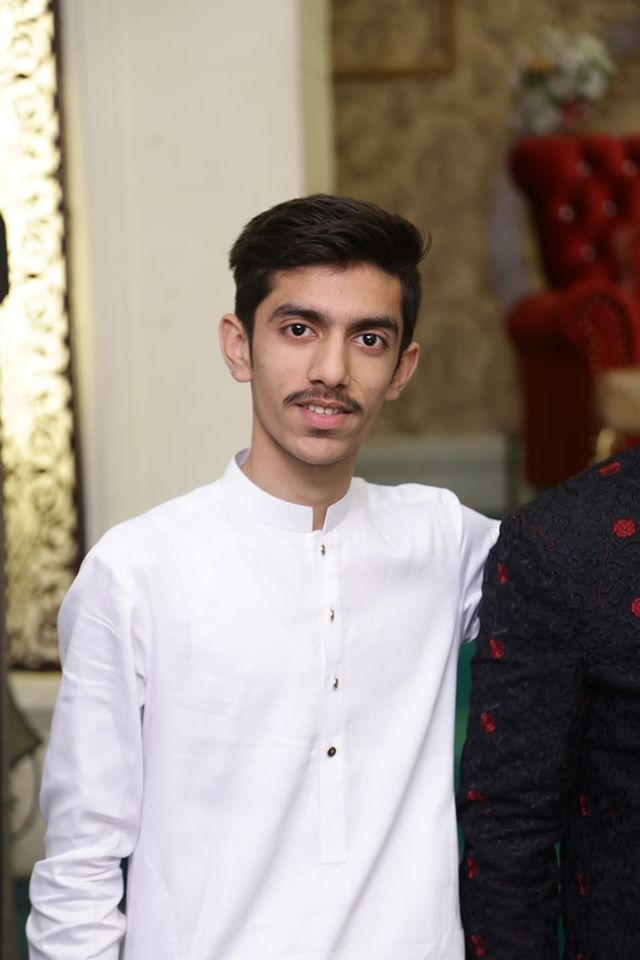
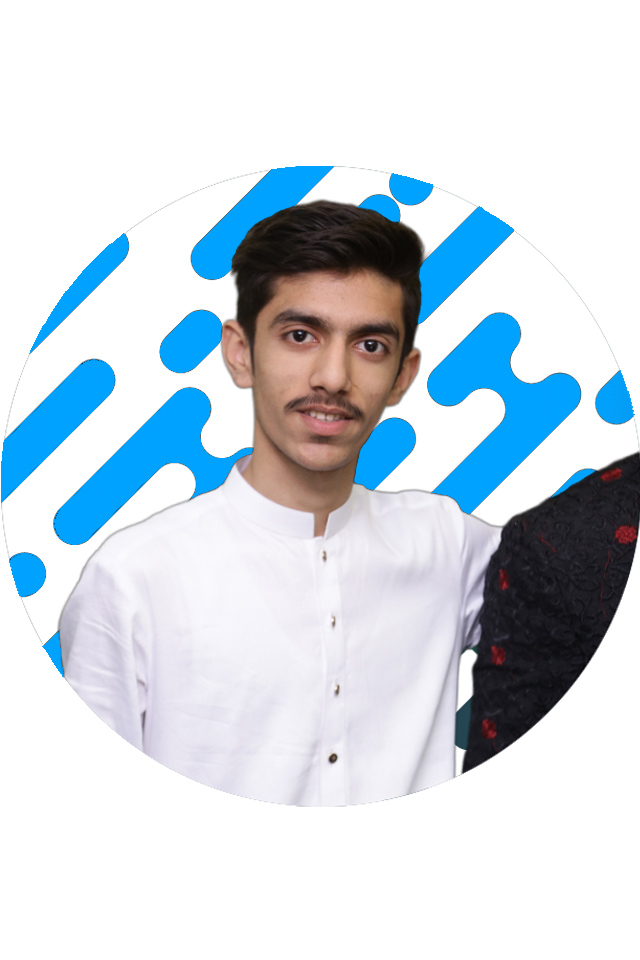
second

diff --git a/index.html b/index.html
@@ -6,7 +6,7 @@
 
         <!--==================== UNICONS ====================-->
         <link rel="stylesheet" href="https://unicons.iconscout.com/release/v4.0.0/css/line.css">
-        
+        <link rel="stylesheet" href="https://unicons.iconscout.com/release/v4.0.0/css/solid.css">
         <!--==================== SWIPER CSS ====================-->
         <link rel="stylesheet" href="./packages/css/swiper-bundle.min.css">
         
@@ -98,7 +98,7 @@
                                     165.547 130.807 187.559 100.226 186.353C69.6454 185.297 41.0228 161.023 21.7403 
                                     129.362C2.45775 97.8511 -7.48481 59.1033 6.67581 34.5279C20.9871 10.1032 59.7028 
                                     -0.149132 97.9666 0.00163737C136.23 0.303176 174.193 10.857 190.312 36.4879Z"/>
-                                    <image class="home__blob-img" x="" y="-50" xlink:href="packages/images/DP.jpg"/>
+                                    <image class="home__blob-img" x="" y="-50" xlink:href="packages/images/profile.jpg"/>
                                 </g>
                             </svg>
                         </div>
@@ -435,7 +435,7 @@
         <div class="services__content">
             <div>
                 <i class="uil uil-swatchbook skills__icon"></i>
-                <h3 class="services__title">Graphic Design<br></h3>
+                <h3 class="services__title">Web Developer<br></h3>
             </div>
             <span class="button button--flex button--small button--link services__button">
                 View more
@@ -444,7 +444,7 @@
 
             <div class="services__modal">
                 <div class="services__modal-content">
-                    <h4 class="services__modal-title">Graphic Design <br></h4>
+                    <h4 class="services__modal-title">Web Developer <br></h4>
                     <i class="uil uil-times services__modal-close"></i>
 
                     <ul class="services__modal-services grid">
@@ -517,7 +517,7 @@
         <div class="services__content">
             <div>
                 <i class="uil uil-arrow services__icon"></i>
-                <h3 class="services__title">Web Developer<br></h3>
+                <h3 class="services__title">Graphic Design<br></h3>
             </div>
             <span class="button button--flex button--small button--link services__button">
                 View more
@@ -526,7 +526,7 @@
 
             <div class="services__modal">
                 <div class="services__modal-content">
-                    <h4 class="services__modal-title">Web  Developer<br></h4>
+                    <h4 class="services__modal-title">Graphic Design<br></h4>
                     <i class="uil uil-times services__modal-close"></i>
 
                     <ul class="services__modal-services grid">
@@ -662,73 +662,92 @@
                     <div class="testimonial__content swiper-slide">
                         <div class="testimonial__data">
                             <div class="testimonial__header">
-                                <img src="./packages/images/arun.PNG" alt="" class="testimonial__img">
+                                <img src="./packages/images/User1.jpg" alt="" class="testimonial__img">
                                 
                                 <div>
-                                    <h3 class="testimonial__name">Patrick E.</h3>
+                                    <h3 class="testimonial__name">Joylove G.</h3>
                                     <span class="testimonial__client">Client</span>
                                 </div>
                             </div>
                             <div>
-                                <i class="uil uil-star testimonial__icon-star"></i>
-                                <i class="uil uil-star testimonial__icon-star"></i>
-                                <i class="uil uil-star testimonial__icon-star"></i>
-                                <i class="uil uil-star testimonial__icon-star"></i>
-                                <i class="uil uil-star testimonial__icon-star"></i>
+                                <i class="uis uis-star testimonial__icon-star"></i>
+                                <i class="uis uis-star testimonial__icon-star"></i>
+                                <i class="uis uis-star testimonial__icon-star"></i>
+                                <i class="uis uis-star testimonial__icon-star"></i>
+                                <i class="uis uis-star testimonial__icon-star"></i>
                             </div>
                         </div>
 
-                        <p class="testimonial__description">I get a good impression, I carry out my project with all the 
-                            possible quality and attention and support 24 hours a day.
+                        <p class="testimonial__description">I am extremely particular and kept making small changes, but the seller so patient with me and seemed cool & energetic to make the changes to my satisfaction. I am very pleased with the finished Logo and seller was Amazing to work with, I'll Hire Again Ali Memon.
                         </p>
                     </div>
                     <!--==================== TESTIMONIAL 2 ====================-->
                     <div class="testimonial__content swiper-slide">
                         <div class="testimonial__data">
                             <div class="testimonial__header">
-                                <img src="./packages/images/yuga.PNG" alt="" class="testimonial__img">
+                                <img src="./packages/images/User2.jpeg" alt="" class="testimonial__img">
                                 
                                 <div>
-                                    <h3 class="testimonial__name">Alexie J.</h3>
+                                    <h3 class="testimonial__name">Justin S.</h3>
                                     <span class="testimonial__client">Client</span>
                                 </div>
                             </div>
                             <div>
-                                <i class="uil uil-star testimonial__icon-star"></i>
-                                <i class="uil uil-star testimonial__icon-star"></i>
-                                <i class="uil uil-star testimonial__icon-star"></i>
-                                <i class="uil uil-star testimonial__icon-star"></i>
-                                <i class="uil uil-star testimonial__icon-star"></i>
+                                <i class="uis uis-star testimonial__icon-star"></i>
+                                <i class="uis uis-star testimonial__icon-star"></i>
+                                <i class="uis uis-star testimonial__icon-star"></i>
+                                <i class="uis uis-star testimonial__icon-star"></i>
+                                <i class="uis uis-star testimonial__icon-star"></i>
                             </div>
                         </div>
 
-                        <p class="testimonial__description">I get a good impression, I carry out my project with all the 
-                            possible quality and attention and support 24 hours a day.
+                        <p class="testimonial__description">I have been using Ali for past 2 years, his really good at his job. always works along your requirements, doesn't hesitate to make changes. highly recommended.
                         </p>
                     </div>
                     <!--==================== TESTIMONIAL 3 ====================-->
                     <div class="testimonial__content swiper-slide">
                         <div class="testimonial__data">
                             <div class="testimonial__header">
-                                <img src="./packages/images/shenan.PNG" alt="" class="testimonial__img">
+                                <img src="./packages/images/User3.jpeg" alt="" class="testimonial__img">
                                 
                                 <div>
-                                    <h3 class="testimonial__name">Shenan Sachinthan</h3>
+                                    <h3 class="testimonial__name">Rebecca S.</h3>
                                     <span class="testimonial__client">Client</span>
                                 </div>
                             </div>
                             <div>
-                                <i class="uil uil-star testimonial__icon-star"></i>
-                                <i class="uil uil-star testimonial__icon-star"></i>
-                                <i class="uil uil-star testimonial__icon-star"></i>
-                                <i class="uil uil-star testimonial__icon-star"></i>
-                                <i class="uil uil-star testimonial__icon-star"></i>
+                                <i class="uis uis-star testimonial__icon-star"></i>
+                                <i class="uis uis-star testimonial__icon-star"></i>
+                                <i class="uis uis-star testimonial__icon-star"></i>
+                                <i class="uis uis-star testimonial__icon-star"></i>
+                                <i class="uis uis-star testimonial__icon-star"></i>
                             </div>
                         </div>
 
-                        <p class="testimonial__description">I get a good impression, I carry out my project with all the 
-                            possible quality and attention and support 24 hours a day.</p>
+                        <p class="testimonial__description">Happy Client means More Jobs!! Will book again soon!</p>
                     </div>      
+                    <!--==================== TESTIMONIAL 4 ====================-->
+                    <div class="testimonial__content swiper-slide">
+                        <div class="testimonial__data">
+                            <div class="testimonial__header">
+                                <img src="./packages/images/User4.jpg" alt="" class="testimonial__img">
+                                
+                                <div>
+                                    <h3 class="testimonial__name">WJFilms</h3>
+                                    <span class="testimonial__client">Client</span>
+                                </div>
+                            </div>
+                            <div>
+                                <i class="uis uis-star testimonial__icon-star"></i>
+                                <i class="uis uis-star testimonial__icon-star"></i>
+                                <i class="uis uis-star testimonial__icon-star"></i>
+                                <i class="uis uis-star testimonial__icon-star"></i>
+                                <i class="uis uis-star testimonial__icon-star"></i>
+                            </div>
+                        </div>
+
+                        <p class="testimonial__description">Loved the vision & results with designer. Communication was excellent & we were able to work together to create a perfect end result. I can't suggest their design services highly enough. (Recommended)</p>
+                    </div>    
                 </div>
 
                 <!--Add pagination-->
